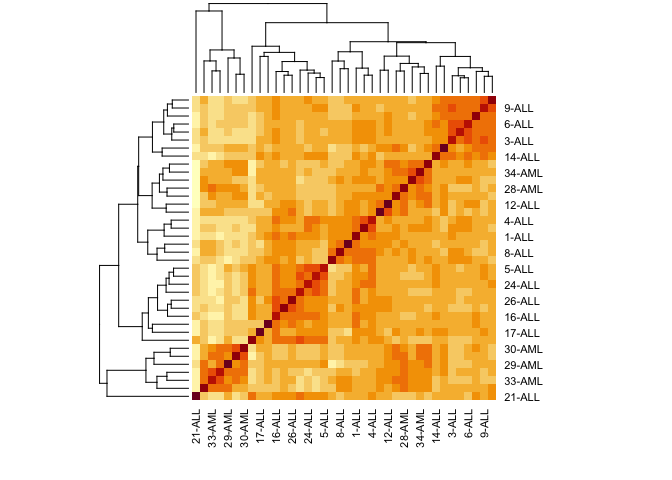
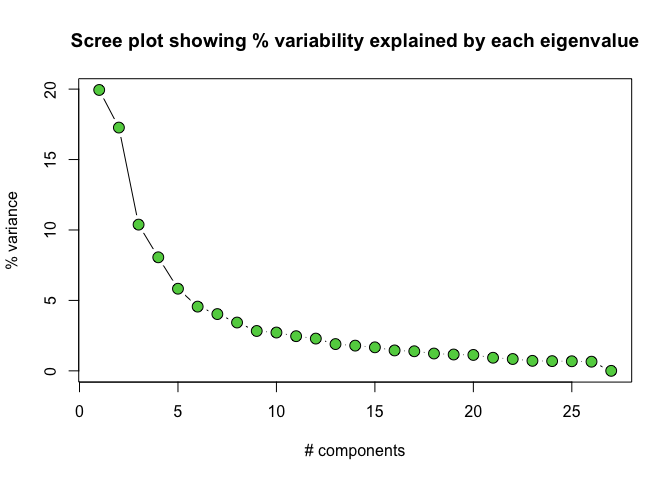
update with most recent Knit

diff --git a/golub.md b/golub.md
@@ -118,7 +118,7 @@ plot(hc.samples, cex=0.8)
 data.pca <- prcomp(t(data))
 data.loadings <- data.pca$x
 
-data.pca.var <- round(data.pca$sdev^2 / sum(data.pca$sdev^2)*100,2)
+data.pca.var <- round(data.pca$sdev^2 / sum(data.pca$sdev^2)*100, 2)
 plot(c(1:length(data.pca.var)), data.pca.var, type="b", xlab="# components",
      ylab="% variance", pch=21, col=1, bg=3, cex=1.5,
      main="Scree plot showing % variability explained by each eigenvalue")
@@ -146,3 +146,41 @@ legend('topleft', legend=levels(as.factor(ann$ALL.AML)),
 ```
 
 ![](golub_files/figure-gfm/unnamed-chunk-6-1.png)<!-- -->
+
+## PCA within ALL data: B-cell vs. T-cell
+
+``` r
+data.all <- data[, ann$ALL.AML=='ALL']
+
+data.all.pca <- prcomp(t(data.all))
+data.all.loadings <- data.all.pca$x
+
+data.all.pca.var <- round(data.all.pca$sdev^2 / sum(data.all.pca$sdev^2)*100, 2)
+plot(c(1:length(data.all.pca.var)), data.all.pca.var, type="b", 
+     xlab="# components", ylab="% variance", pch=21, col=1, bg=3, cex=1.5,
+     main="Scree plot showing % variability explained by each eigenvalue")
+```
+
+![](golub_files/figure-gfm/unnamed-chunk-7-1.png)<!-- -->
+
+``` r
+par(mfrow=c(3, 1))
+t.b.cell <- as.factor(ann$T.B.cell)
+
+plot(data.all.loadings[, 1], data.all.loadings[, 2], xlab='PC1', ylab='PC2',
+     pch=19, col=as.numeric(t.b.cell), main="PC2 vs. PC1")
+legend('bottomright', legend=levels(t.b.cell),
+       col=1:length(levels(t.b.cell)), pch=c(19, 19))
+
+plot(data.all.loadings[, 1], data.all.loadings[, 3], xlab='PC1', ylab='PC3',
+     pch=19, col=as.numeric(t.b.cell), main="PC3 vs. PC1")
+legend('bottomright', legend=levels(t.b.cell),
+       col=1:length(levels(t.b.cell)), pch=c(19, 19))
+
+plot(data.all.loadings[, 2], data.all.loadings[, 3], xlab='PC2', ylab='PC3',
+     pch=19, col=as.numeric(t.b.cell), main="PC3 vs. PC2")
+legend('bottomright', legend=levels(t.b.cell),
+       col=1:length(levels(t.b.cell)), pch=c(19, 19))
+```
+
+![](golub_files/figure-gfm/unnamed-chunk-8-1.png)<!-- -->
